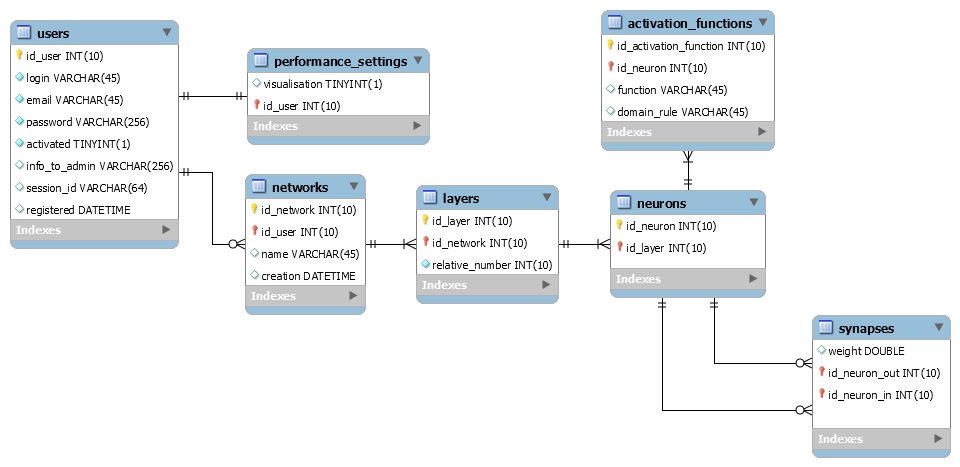
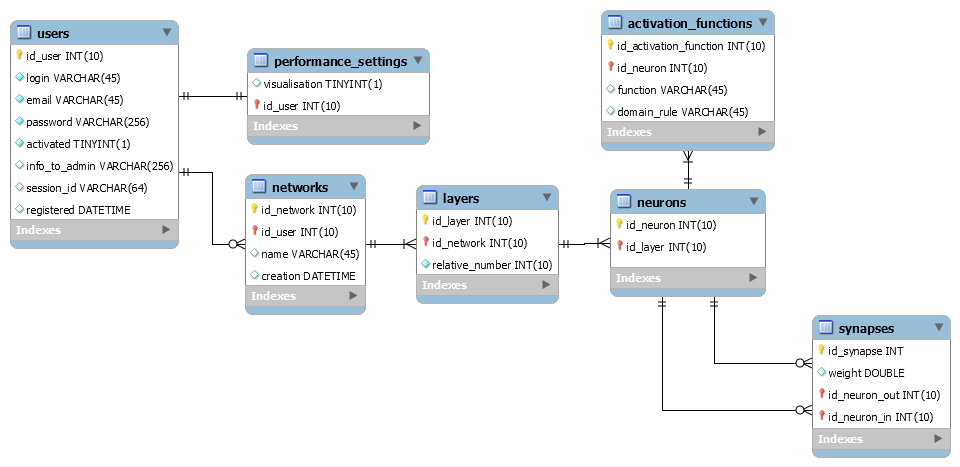
Fixed many bugs, but the generate service still doesn't work

diff --git a/BE/nnCloudRESTService/src/main/java/com/mycompany/nncloudrestservice/controllers/GenerateController.java b/BE/nnCloudRESTService/src/main/java/com/mycompany/nncloudrestservice/controllers/GenerateController.java
@@ -29,11 +29,11 @@ public class GenerateController
         Network network = new Network();
         String name = parameters.getString("name");
         int[] neuronsPerLayer = new int[3]; 
-        
-        neuronsPerLayer[0] = Integer.parseInt(parameters.getString("1stlayer"));
-        neuronsPerLayer[1] = Integer.parseInt(parameters.getString("2ndlayer"));
-        neuronsPerLayer[2] = Integer.parseInt(parameters.getString("3rdlayer"));
-        neuronsPerLayer[3] = Integer.parseInt(parameters.getString("4thlayer"));
+                             
+        neuronsPerLayer[0] = parameters.getInt("1stlayer");
+        neuronsPerLayer[1] = parameters.getInt("2ndlayer");
+        neuronsPerLayer[2] = parameters.getInt("3rdlayer");
+        neuronsPerLayer[3] = parameters.getInt("4thlayer");
         
         String activationFunctionRaw = parameters.getString("activationFunction");
         

diff --git a/BE/nnCloudRESTService/src/main/java/com/mycompany/nncloudrestservice/Generate.java b/BE/nnCloudRESTService/src/main/java/com/mycompany/nncloudrestservice/Generate.java
@@ -12,6 +12,7 @@ import javax.ws.rs.Path;
 import javax.ws.rs.Produces;
 import javax.ws.rs.core.MediaType;
 import javax.ws.rs.core.Response;
+import org.json.JSONException;
 
 import org.json.JSONObject;
 
@@ -29,8 +30,14 @@ public class Generate
     {
         GenerateController gc = new GenerateController();
        
-        gc.generateNetwork(new JSONObject(x));
-        
+        try
+        {
+            gc.generateNetwork(new JSONObject(x));
+        }
+        catch(JSONException je)
+        {
+            return Response.status(400).build();
+        }
         return Response.status(204).build();
     }
 }

diff --git a/BE/nnCloudRESTService/src/main/java/com/mycompany/nncloudrestservice/model/Synapse.java b/BE/nnCloudRESTService/src/main/java/com/mycompany/nncloudrestservice/model/Synapse.java
@@ -5,9 +5,6 @@
  */
 package com.mycompany.nncloudrestservice.model;
 
-import java.util.ArrayList;
-import java.util.List;
-
 /**
  *
  * @author Tomasz
@@ -15,13 +12,22 @@ import java.util.List;
 
 public class Synapse 
 {
+    private int id;
     private double weight;
-
+    
     public double getWeight() {
         return weight;
     }
 
     public void setWeight(double weight) {
         this.weight = weight;
+    }
+
+    public int getId() {
+        return id;
+    }
+
+    public void setId(int id) {
+        this.id = id;
     }
 }
